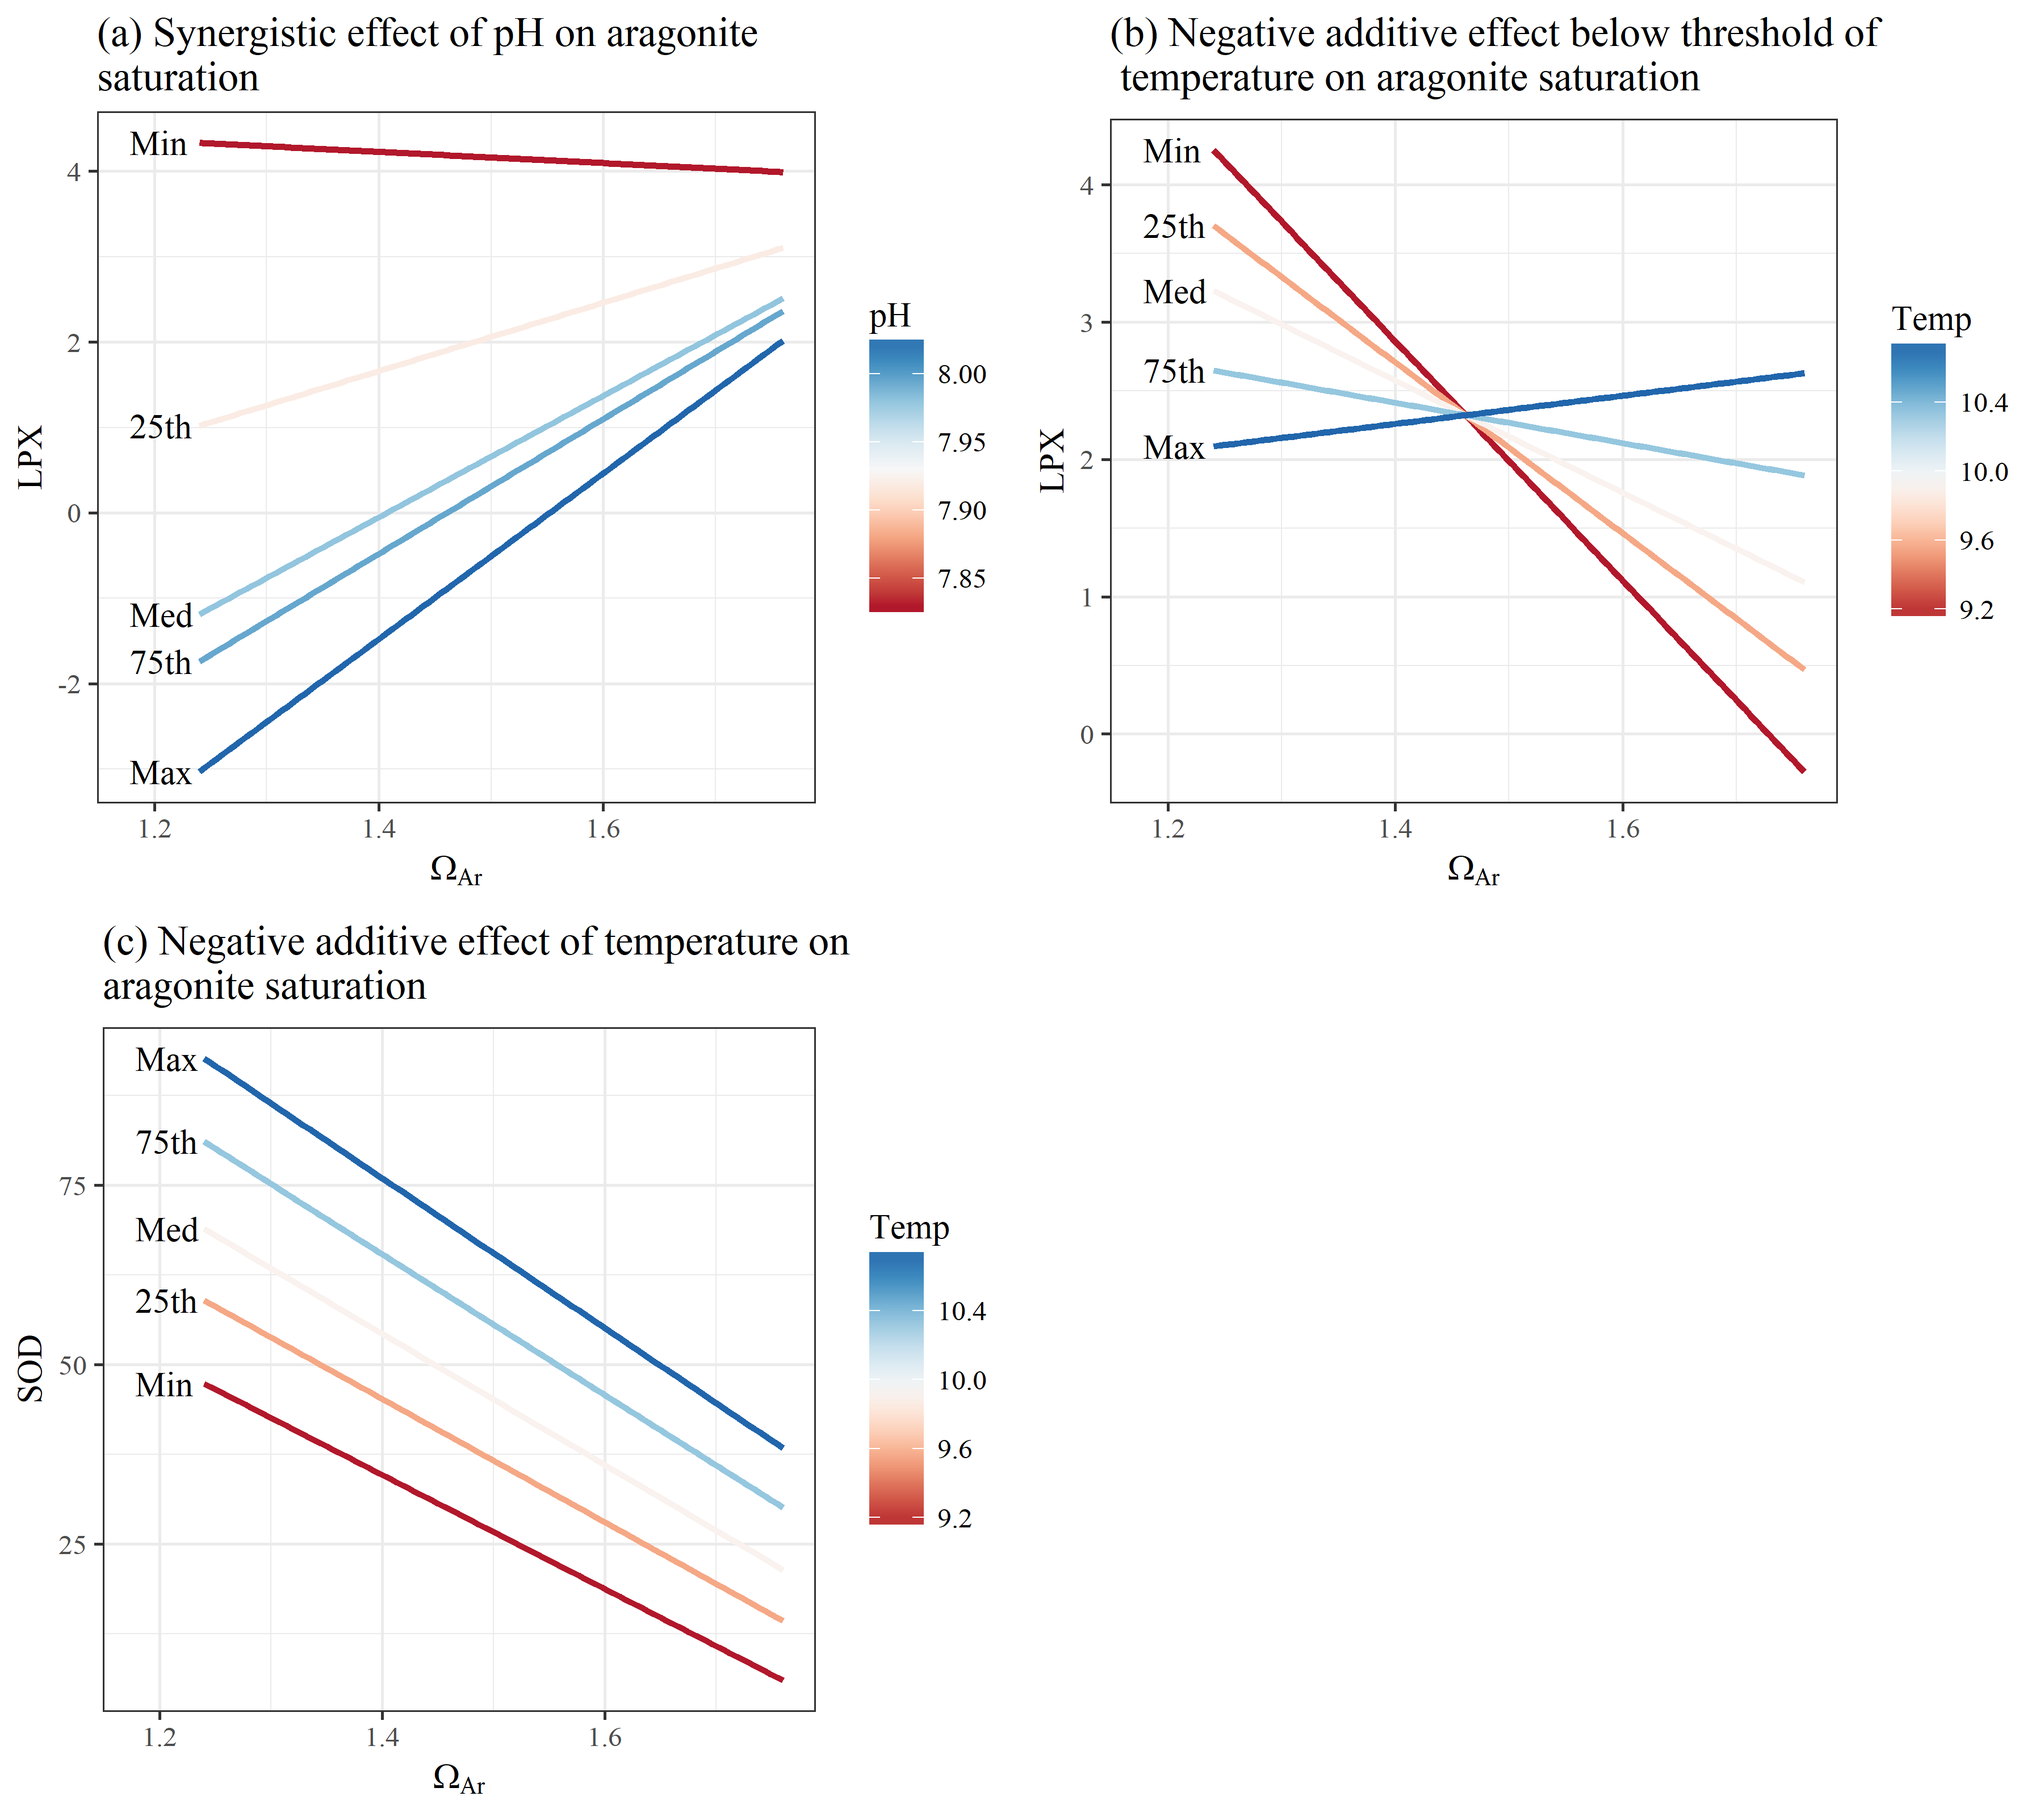
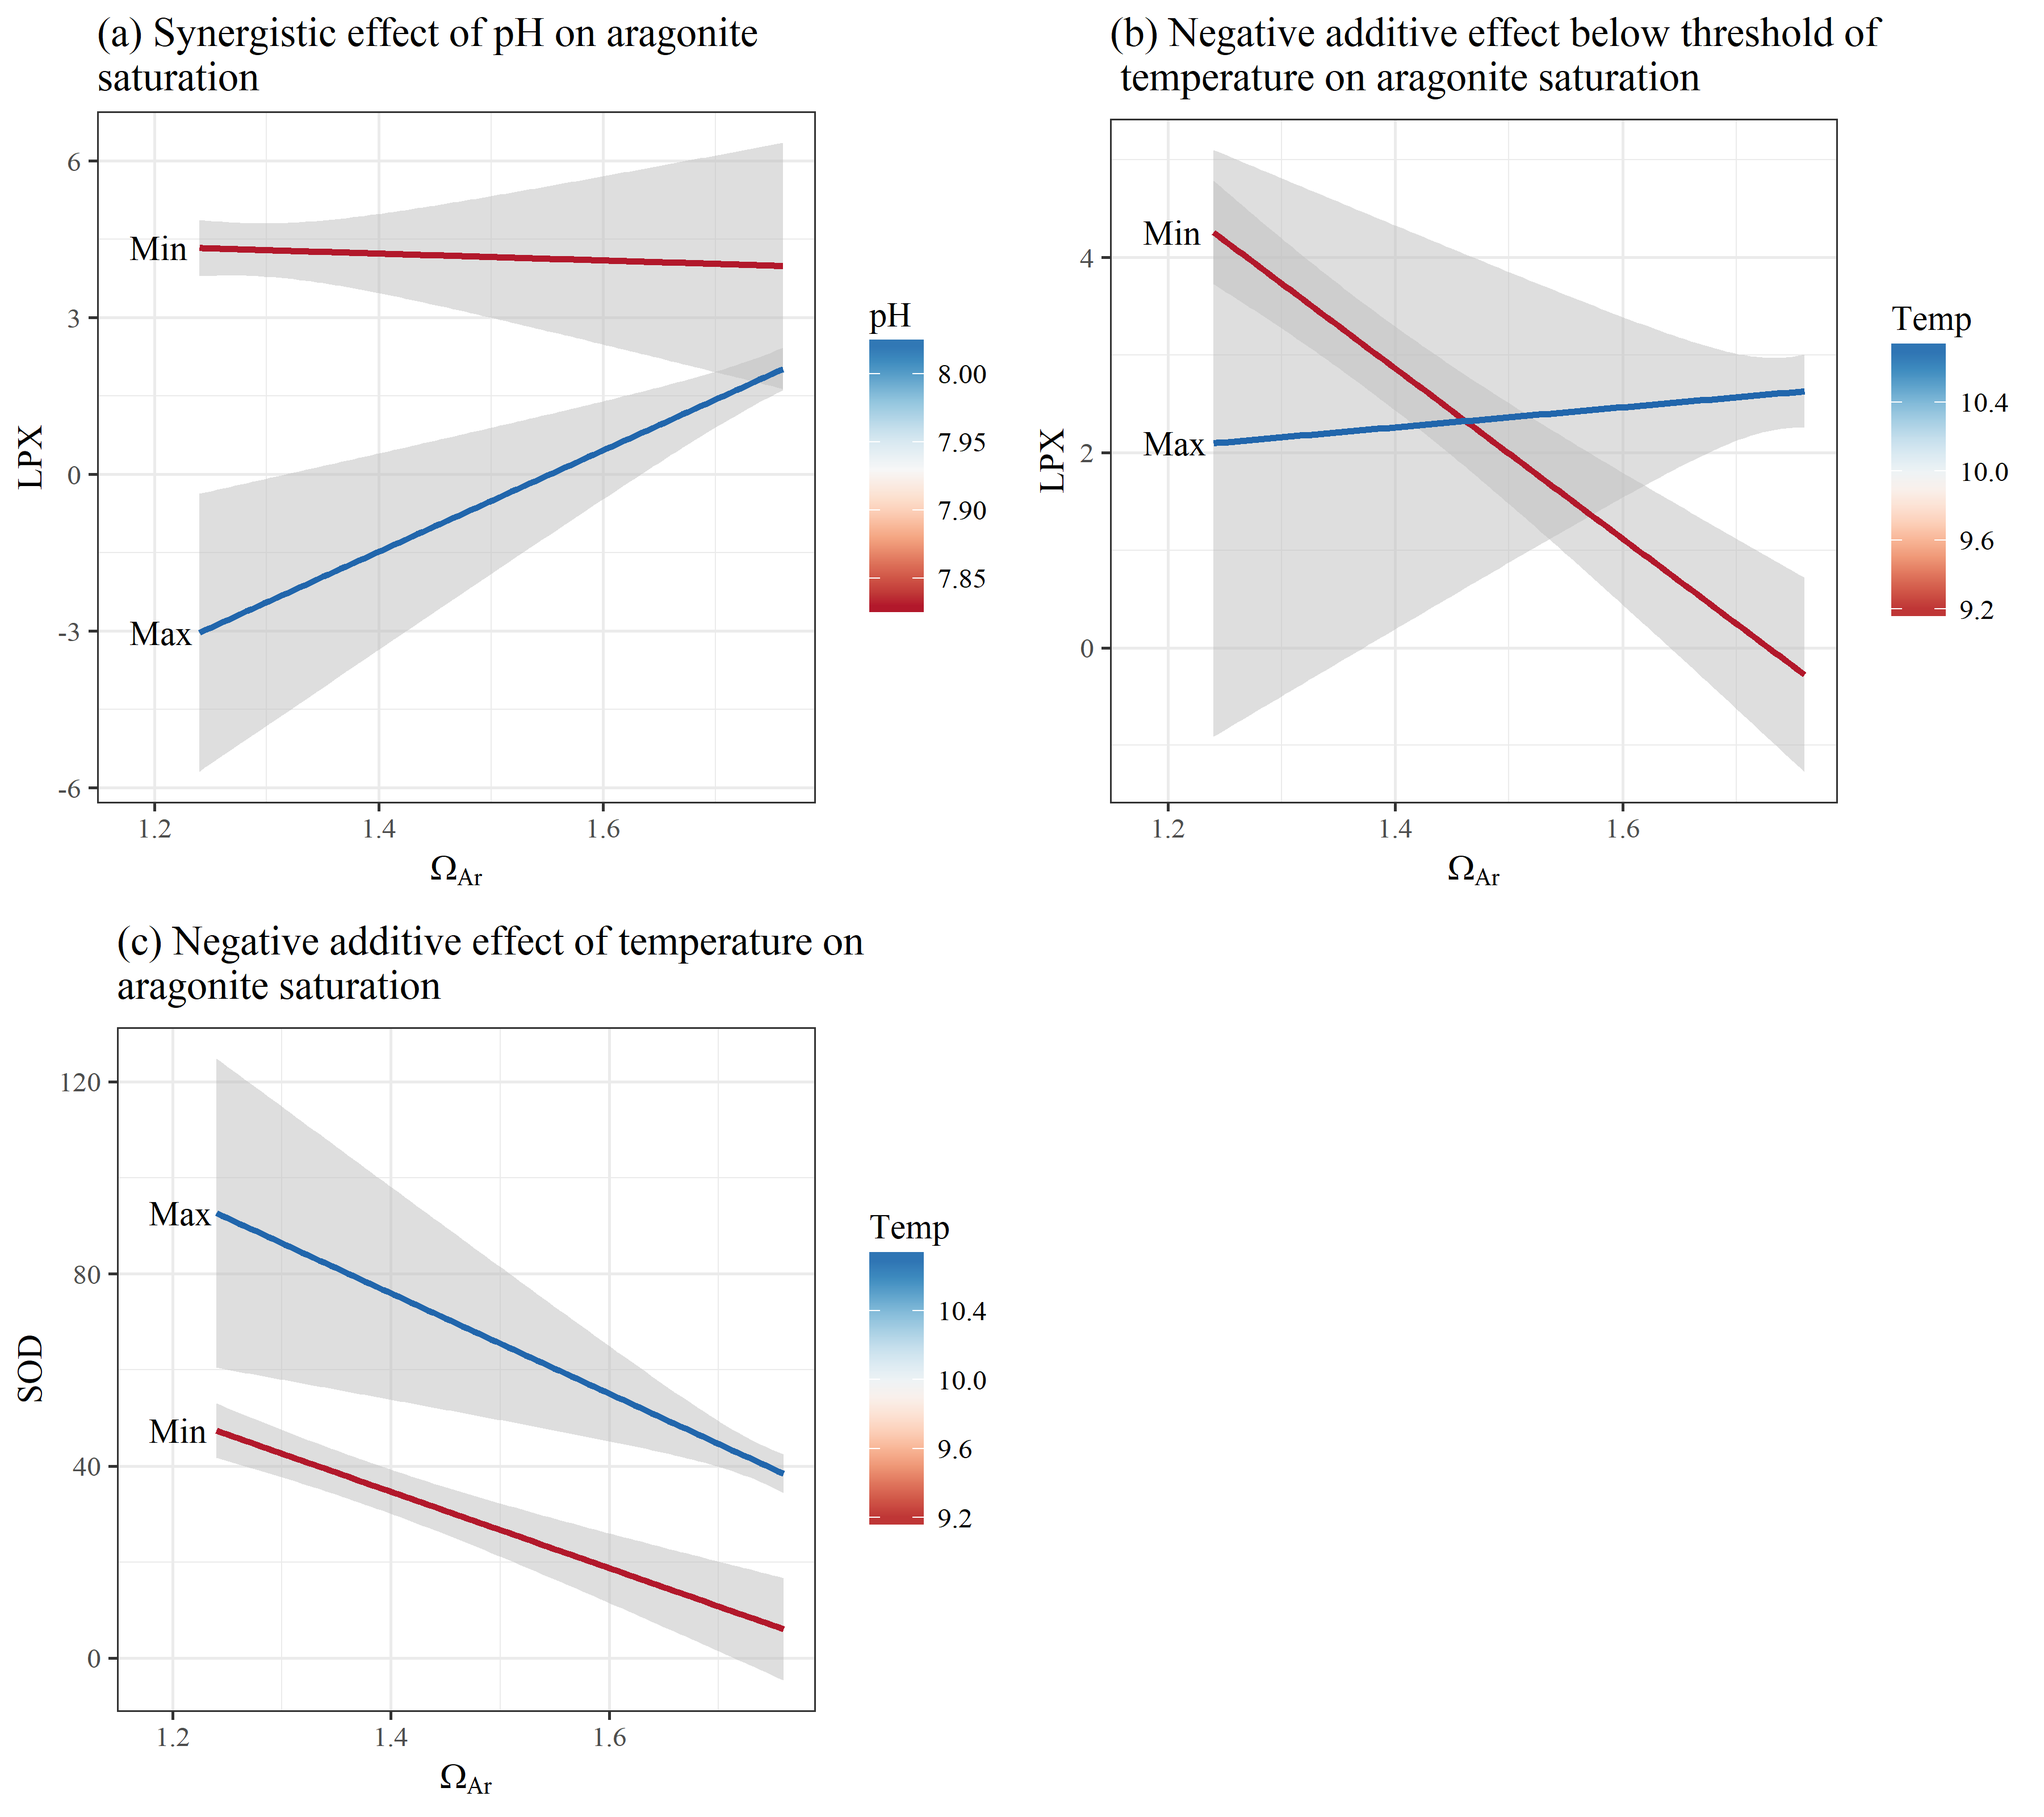
effects plots with confidence intervals, added observed data to surface plots

diff --git a/figures.html b/figures.html
@@ -328,6 +328,7 @@ pl1 &lt;- filter(biosel, grepl(&#39;92$&#39;, Model)) %&gt;%
   get_pldat(., &#39;pH&#39;)
 
 p1 &lt;- ggplot() +
+  geom_ribbon(data = pl1[[1]], aes(x = Ara, ymin = LPX - se.fit, ymax = LPX + se.fit, group = pH), alpha = 0.5, fill = &#39;grey&#39;) +
   geom_line(data = pl1[[1]], aes(x = Ara, y = LPX, group = pH, colour = pH), size = 1) + 
   geom_text(data = pl1[[2]], aes(x= x, y = y, label = lab), hjust = 0) +
   theme_bw() +
@@ -343,6 +344,7 @@ pl2 &lt;- filter(biosel, grepl(&#39;101$&#39;, Model)) %&gt;%
   get_pldat(., &#39;Temp&#39;)
 
 p2 &lt;- ggplot() +
+    geom_ribbon(data = pl2[[1]], aes(x = Ara, ymin = LPX - se.fit, ymax = LPX + se.fit, group = Temp), alpha = 0.5, fill = &#39;grey&#39;) +
   geom_line(data = pl2[[1]], aes(x = Ara, y = LPX, group = Temp, colour = Temp), size = 1) + 
   geom_text(data = pl2[[2]], aes(x= x, y = y, label = lab), hjust = 0) +
   theme_bw() +
@@ -358,6 +360,7 @@ pl3 &lt;- filter(biosel, grepl(&#39;164$&#39;, Model)) %&gt;%
   get_pldat(., &#39;Temp&#39;)
 
 p3 &lt;- ggplot() +
+    geom_ribbon(data = pl3[[1]], aes(x = Ara, ymin = SOD - se.fit, ymax = SOD + se.fit, group = Temp), alpha = 0.5, fill = &#39;grey&#39;) +
   geom_line(data = pl3[[1]], aes(x = Ara, y = SOD, group = Temp, colour = Temp), size = 1) + 
   geom_text(data = pl3[[2]], aes(x= x, y = y, label = lab), hjust = 0) +
   theme_bw() +
@@ -382,6 +385,7 @@ pl4 &lt;- filter(physel, grepl(&#39;4$&#39;, Model)) %&gt;%
   get_pldat(., &#39;pCO2&#39;, fct = 0.9)
 
 p4 &lt;- ggplot() +
+  geom_ribbon(data = pl4[[1]], aes(x = O2, ymin = abu - se.fit, ymax = abu + se.fit, group = pCO2), alpha = 0.5, fill = &#39;grey&#39;) +
   geom_line(data = pl4[[1]], aes(x = O2, y = abu, group = pCO2, colour = pCO2), size = 1) + 
   geom_text(data = pl4[[2]], aes(x= x, y = y, label = lab), hjust = 0) +
   theme_bw() +
@@ -396,6 +400,7 @@ pl5 &lt;- filter(physel, grepl(&#39;38$&#39;, Model)) %&gt;%
   get_pldat(., &#39;Temp&#39;, &#39;right&#39;, fct = 1.05)
 
 p5 &lt;- ggplot() +
+  geom_ribbon(data = pl5[[1]], aes(x = Ara, ymin = dis - se.fit, ymax = dis + se.fit, group = Temp), alpha = 0.5, fill = &#39;grey&#39;) +
   geom_line(data = pl5[[1]], aes(x = Ara, y = dis, group = Temp, colour = Temp), size = 1) + 
   geom_text(data = pl5[[2]], aes(x= x, y = y, label = lab), hjust = 1) +
   theme_bw() +

diff --git a/figures.md b/figures.md
@@ -223,6 +223,7 @@ pl1 <- filter(biosel, grepl('92$', Model)) %>%
   get_pldat(., 'pH')
 
 p1 <- ggplot() +
+  geom_ribbon(data = pl1[[1]], aes(x = Ara, ymin = LPX - se.fit, ymax = LPX + se.fit, group = pH), alpha = 0.5, fill = 'grey') +
   geom_line(data = pl1[[1]], aes(x = Ara, y = LPX, group = pH, colour = pH), size = 1) + 
   geom_text(data = pl1[[2]], aes(x= x, y = y, label = lab), hjust = 0) +
   theme_bw() +
@@ -238,6 +239,7 @@ pl2 <- filter(biosel, grepl('101$', Model)) %>%
   get_pldat(., 'Temp')
 
 p2 <- ggplot() +
+    geom_ribbon(data = pl2[[1]], aes(x = Ara, ymin = LPX - se.fit, ymax = LPX + se.fit, group = Temp), alpha = 0.5, fill = 'grey') +
   geom_line(data = pl2[[1]], aes(x = Ara, y = LPX, group = Temp, colour = Temp), size = 1) + 
   geom_text(data = pl2[[2]], aes(x= x, y = y, label = lab), hjust = 0) +
   theme_bw() +
@@ -253,6 +255,7 @@ pl3 <- filter(biosel, grepl('164$', Model)) %>%
   get_pldat(., 'Temp')
 
 p3 <- ggplot() +
+    geom_ribbon(data = pl3[[1]], aes(x = Ara, ymin = SOD - se.fit, ymax = SOD + se.fit, group = Temp), alpha = 0.5, fill = 'grey') +
   geom_line(data = pl3[[1]], aes(x = Ara, y = SOD, group = Temp, colour = Temp), size = 1) + 
   geom_text(data = pl3[[2]], aes(x= x, y = y, label = lab), hjust = 0) +
   theme_bw() +
@@ -283,6 +286,7 @@ pl4 <- filter(physel, grepl('4$', Model)) %>%
   get_pldat(., 'pCO2', fct = 0.9)
 
 p4 <- ggplot() +
+  geom_ribbon(data = pl4[[1]], aes(x = O2, ymin = abu - se.fit, ymax = abu + se.fit, group = pCO2), alpha = 0.5, fill = 'grey') +
   geom_line(data = pl4[[1]], aes(x = O2, y = abu, group = pCO2, colour = pCO2), size = 1) + 
   geom_text(data = pl4[[2]], aes(x= x, y = y, label = lab), hjust = 0) +
   theme_bw() +
@@ -297,6 +301,7 @@ pl5 <- filter(physel, grepl('38$', Model)) %>%
   get_pldat(., 'Temp', 'right', fct = 1.05)
 
 p5 <- ggplot() +
+  geom_ribbon(data = pl5[[1]], aes(x = Ara, ymin = dis - se.fit, ymax = dis + se.fit, group = Temp), alpha = 0.5, fill = 'grey') +
   geom_line(data = pl5[[1]], aes(x = Ara, y = dis, group = Temp, colour = Temp), size = 1) + 
   geom_text(data = pl5[[2]], aes(x= x, y = y, label = lab), hjust = 1) +
   theme_bw() +
